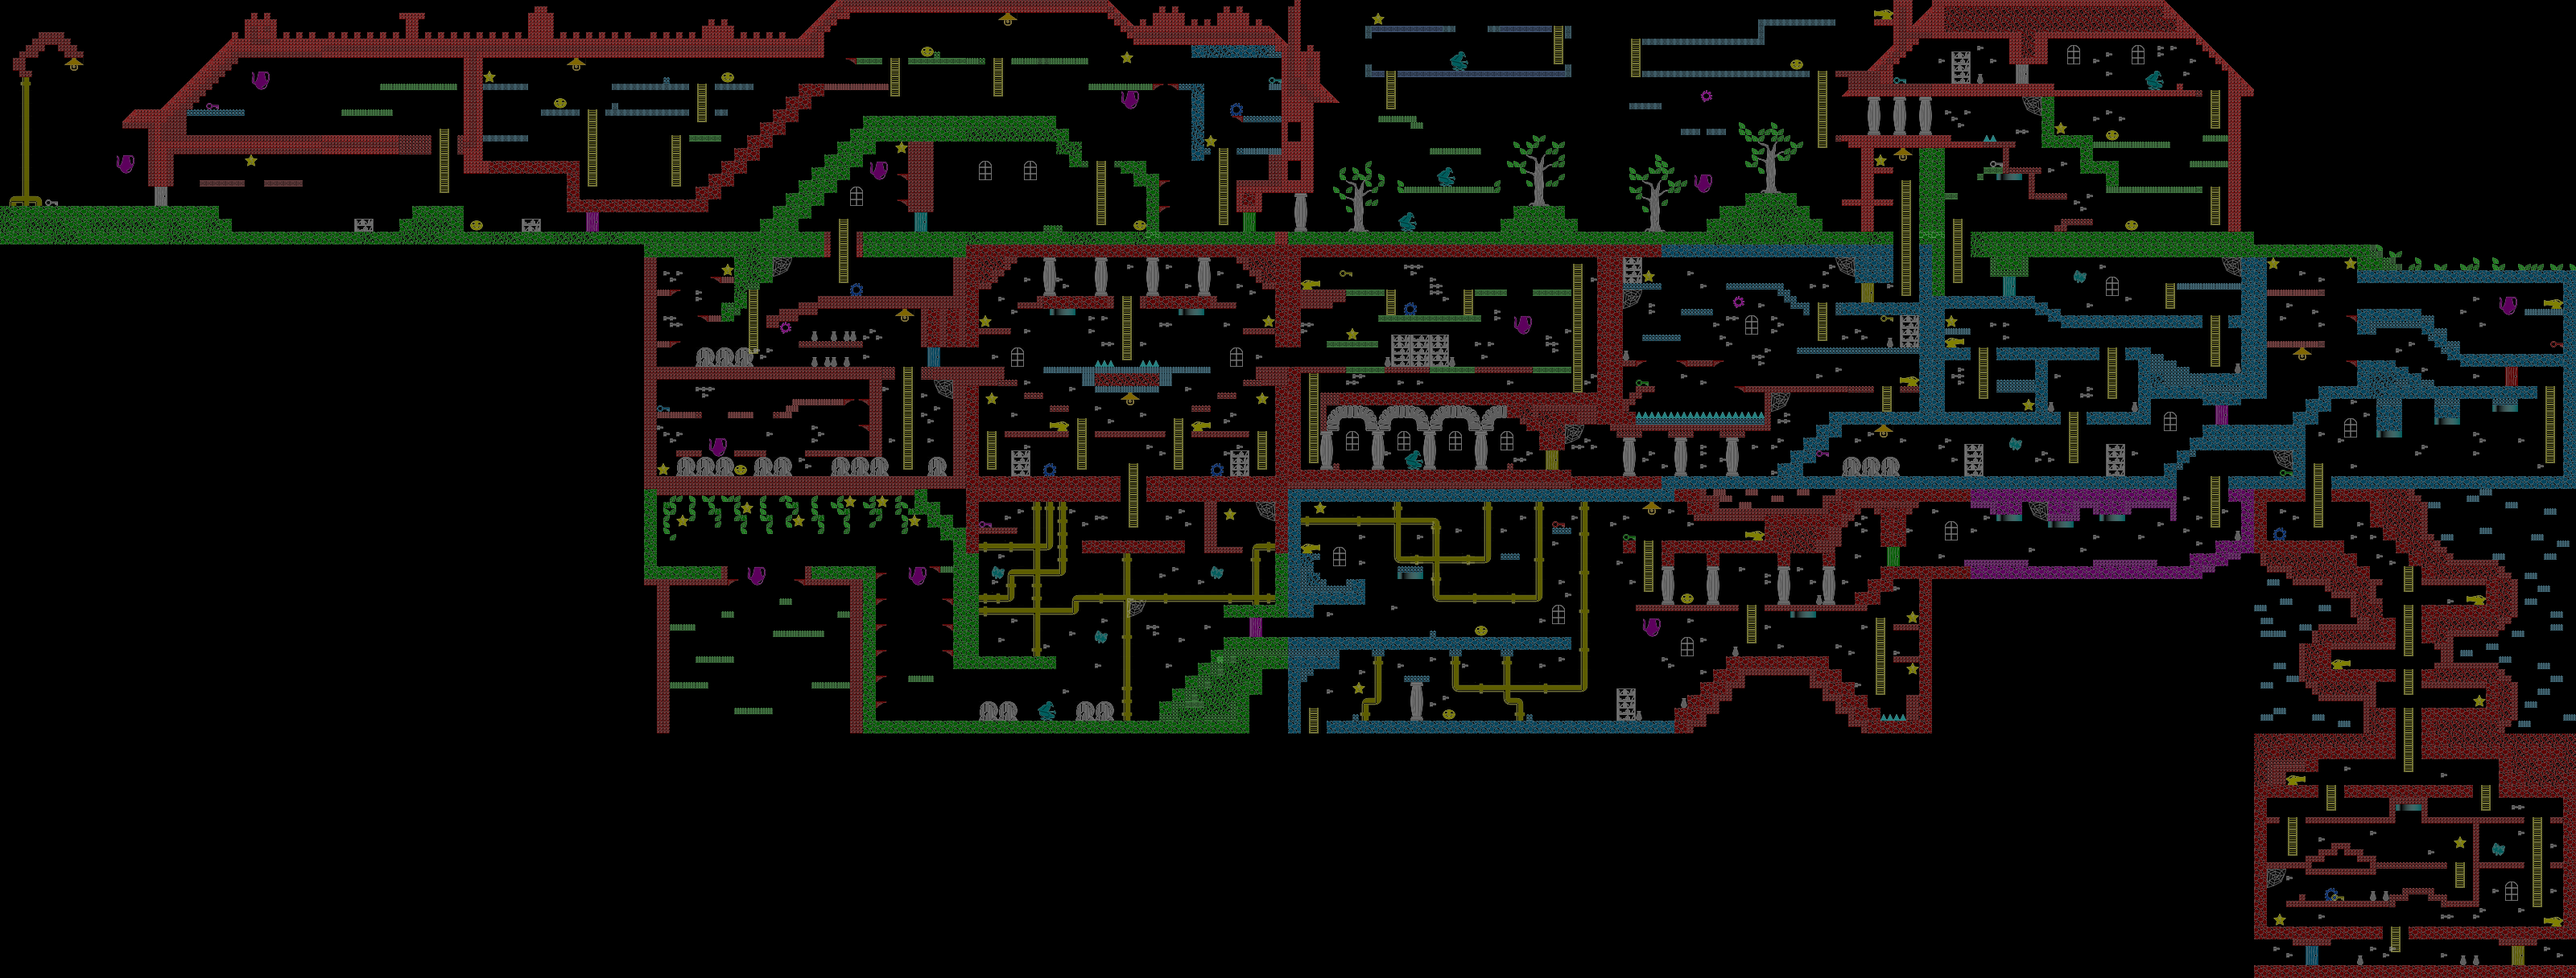
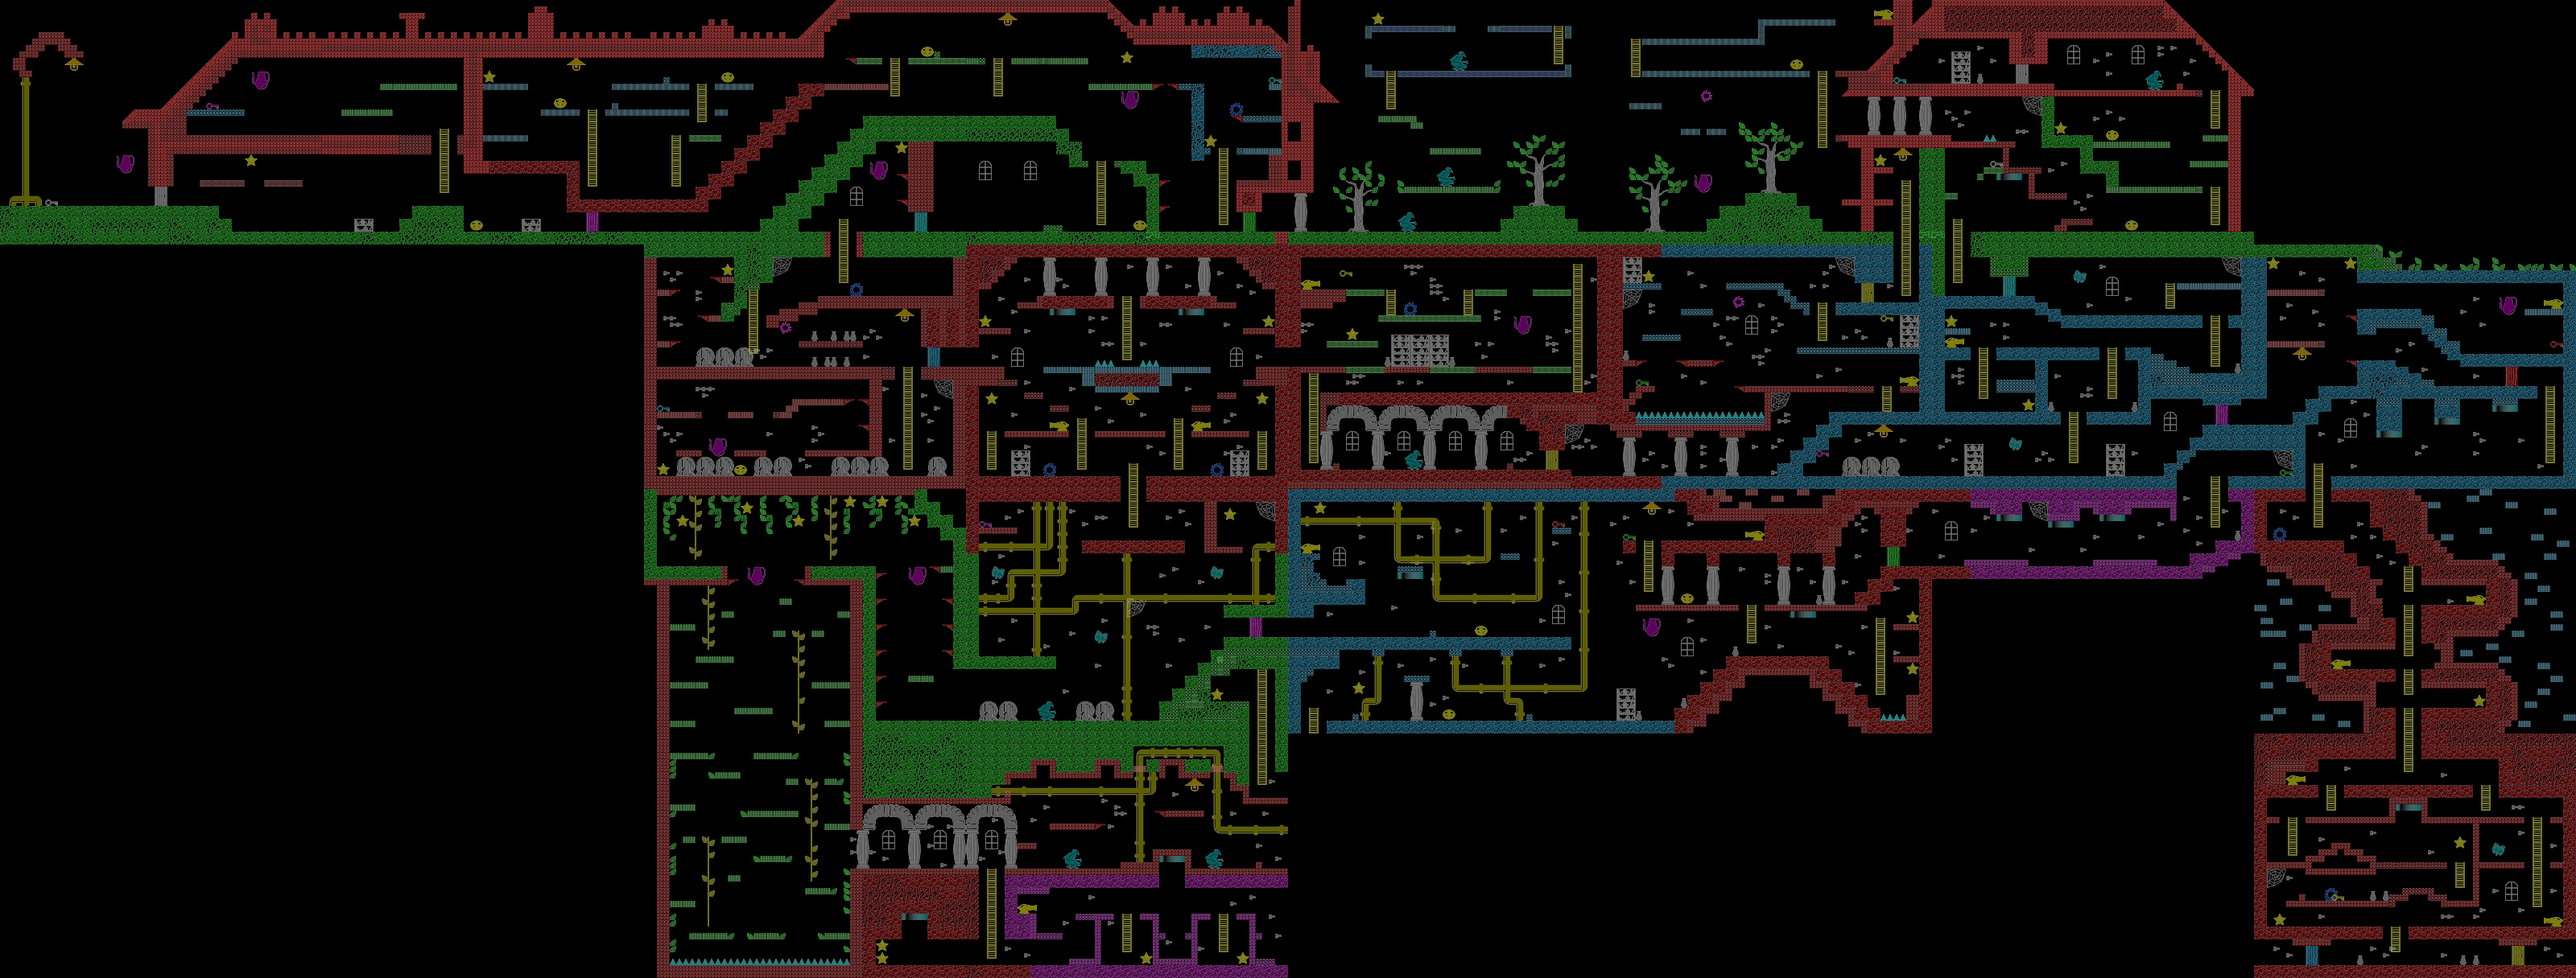
more rooms

Changed region(s): [[0.25, 0.6875, 0.5, 1.0], [0.3125, 0.5, 0.3438, 0.5312]]

diff --git a/src/rooms.js b/src/rooms.js
@@ -20,9 +20,11 @@ var WORLD = {
     "down2": [null, null, "down", null],
 	"pipeline": ["chasm", "pipeline2", "cellar2", null],
 	"pipeline2": ["pipeline", "stairs", null, null],
-	"chasm": [null, "pipeline", null, null],
+	"chasm": [null, "pipeline", null, "chasm2"],
+	"chasm2": [null, "crypt", "chasm", null],
 	"stairs": ["pipeline2", "stairs2", null, null],
-	"stairs2": ["stairs", null, "earth", null]
+	"stairs2": ["stairs", null, "earth", null],
+	"crypt": ["chasm2", null, "pipeline", null]
 };
 
 var DESCRIPTIONS = {
@@ -44,8 +46,10 @@ var DESCRIPTIONS = {
     pipeline: "The leaky pipes",
     pipeline2: "The leaky pipes",
     chasm: "The great chasm",
+    chasm2: "The great chasm",
     stairs: "Dusty service tunnels",
-    stairs2: "Dusty service tunnels"
+    stairs2: "Dusty service tunnels",
+	crypt: "Forgotten crypts"
 };
 
 // rooms cache

diff --git a/src/textures.js b/src/textures.js
@@ -45,7 +45,7 @@ var BLOCKS = [
     ["red_bright", "roof1"],
     ["red_bright", "roof2"],
     ["orange_bright", "lamp"],
-    ["yellow", "pipe_up"],
+    ["yellow", "vine"],
     ["red", "wall2"],
     ["blue", "wall2"],
     ["green", "wall2"],
@@ -119,7 +119,9 @@ var BLOCKS = [
 	["turquoise", "brick2"],
 	["turquoise", "floor1"],
 	["turquoise", "floor2"],
-	["turquoise", "floor3"]
+	["turquoise", "floor3"],
+	["yellow", "vine2"],
+	["yellow", "vine3"]
 ];
 
 EXTRA_INFO = {
@@ -133,6 +135,15 @@ EXTRA_INFO = {
         jump_thru: true
     },
     "ladder1": {
+        ladder: true
+    },
+	"vine": {
+        ladder: true
+    },
+	"vine2": {
+        ladder: true
+    },
+	"vine3": {
         ladder: true
     },
     "door_open": {
